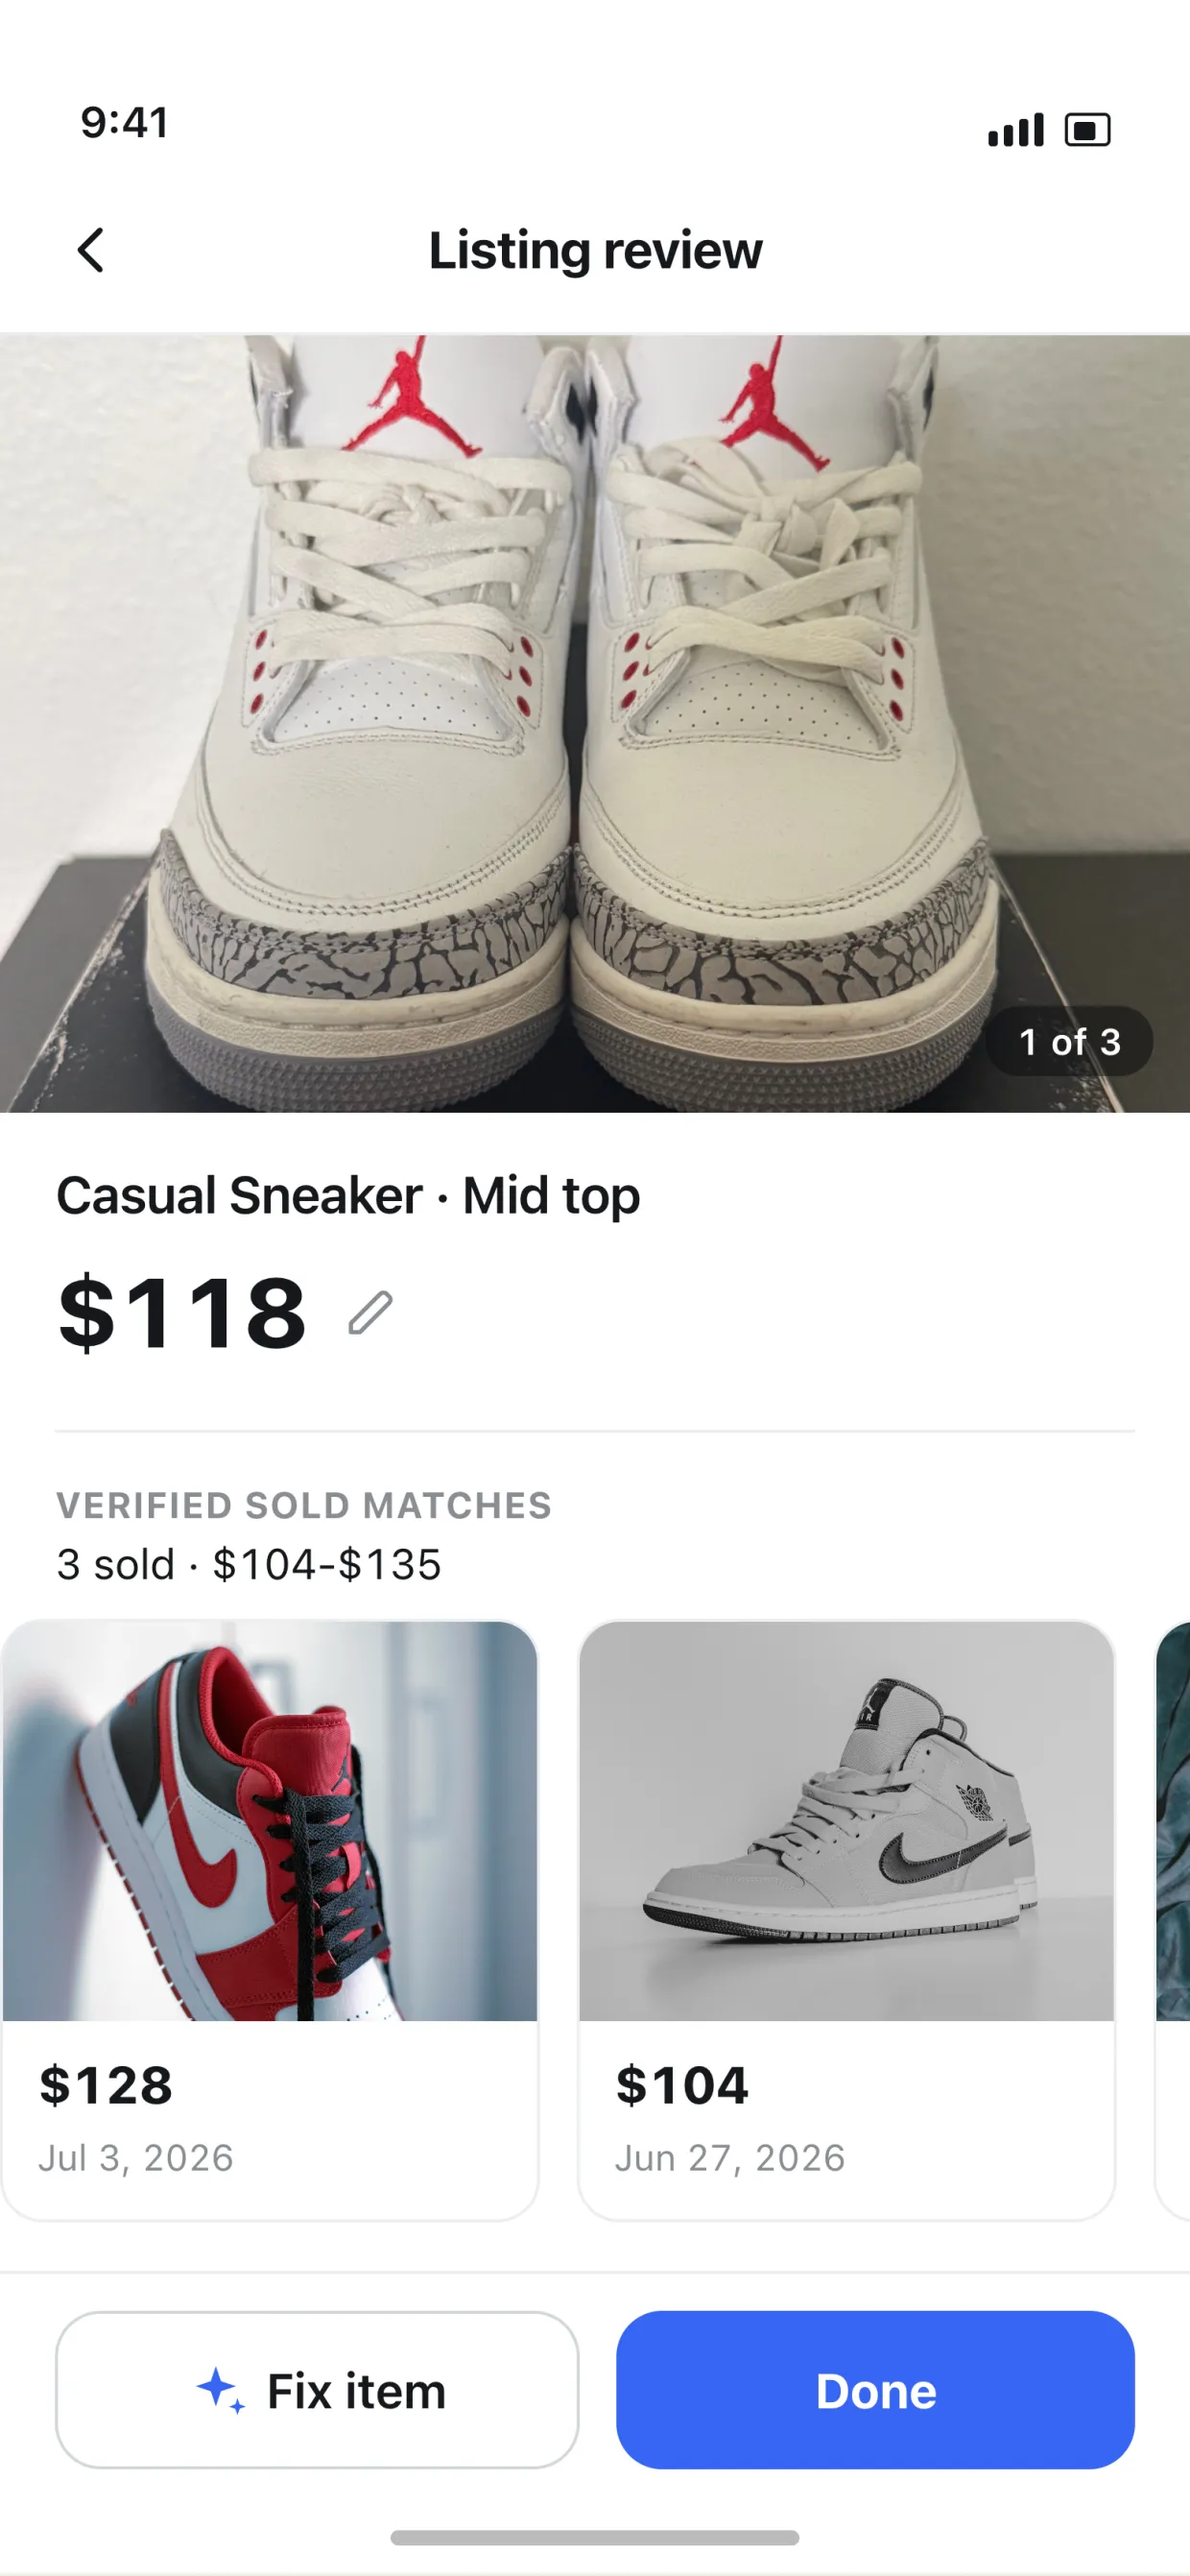
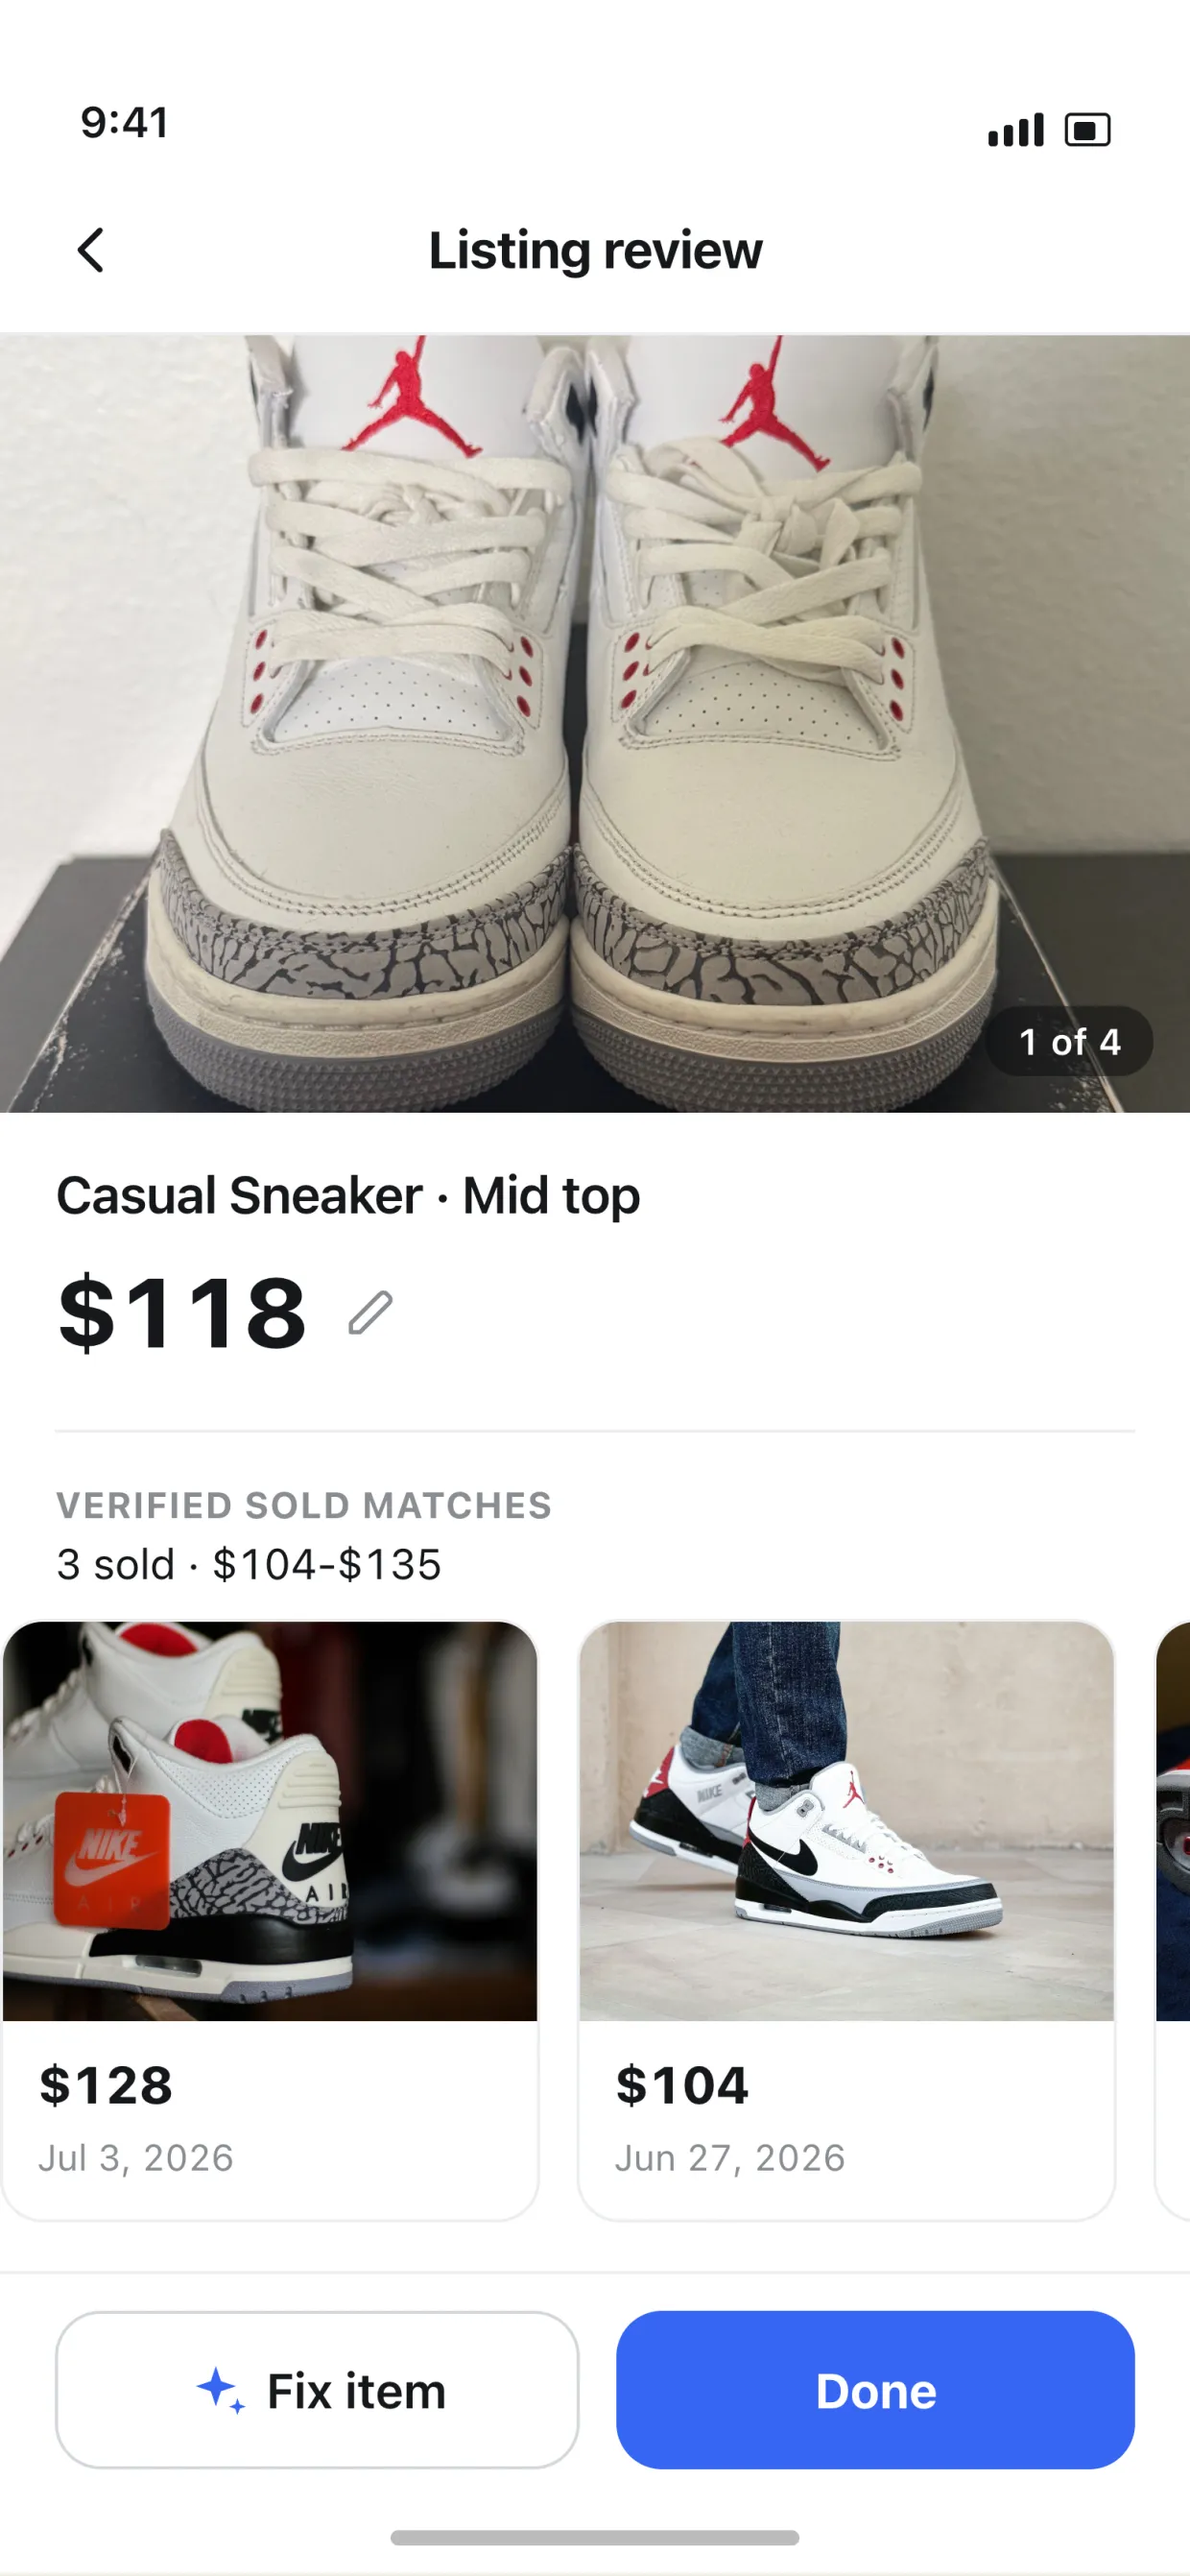
feat(marketing): carry one item through every explorer tab
The explorer's tabs are pipeline stages, so a visitor clicking through is
being shown one thing moving. Four of the five now show the same item,
Aziz's Air Jordan 3 Retro. Publish was a PlayStation 5 and the sold
matches under the price were Air Jordan 1s, which read as a wrong match
set under the heading "Verified sold matches".

Photo Review shows four photos rather than three, one frame per source
photograph. The previous strip cut two of its frames out of IMG_9832 and
put two frontal white-shoe thumbnails next to each other, which reads as
the same photo twice. IMG_9829 is a second lateral view, so it earns its
slot as the close detail, the elephant print over the black midsole,
rather than a second profile.

Listing Review carries the same four frames in the same order and the
Publish export pack says four photos, so the count does not change as the
item moves down the pipeline.

The five sold-comp thumbnails are genuine Air Jordan 3 photographs from
Unsplash, whose licence permits commercial use. Adobe Stock was checked
and rejected: branded resale photography there is editorial-use-only.

Scan is unchanged and still shows the licensed studio Air Jordan 1. It
paints white status text, white framing brackets and a white shutter ring
directly onto the viewfinder image, and the approved v4 Scan package bans
a scrim or grounding gradient. The old plate's top band measures a mean
luminance of 19; the wall behind Aziz's shoes measures 211 to 221. That
[…]

Changed region(s): [[0.0, 0.6187, 0.4597, 0.8043], [0.4903, 0.6187, 1.0, 0.8043]]

diff --git a/src/components/marketing/phone-screens.tsx b/src/components/marketing/phone-screens.tsx
@@ -61,7 +61,7 @@ export function PhotoReviewScreen() {
   return (
     <Shot
       src="/marketing/screens/photo-review.webp"
-      alt="Photo review showing three of five photos of a sneaker, the first marked Cover, a tile for adding another, and an empty voice note row offering to add details the photos might miss."
+      alt="Photo review showing four of five photos of a sneaker, each one a different angle, the first marked Cover, a tile for adding another, and an empty voice note row offering to add details the photos might miss."
     />
   );
 }

diff --git a/docs/design/marketing-screens-provenance.md b/docs/design/marketing-screens-provenance.md
@@ -11,10 +11,16 @@ of it from the binaries.
 | File | Section | Content |
 | --- | --- | --- |
 | `screens/scan.webp` | Scan | camera view framing a licensed studio Air Jordan 1 Low. This is the one screen whose item is not Aziz's own, and the reason is in "Whose shoes these are" below |
-| `screens/photo-review.webp` | Photo Review | three-photo strip of Aziz's Air Jordan 3, a Cover marker, an Add tile, and the voice note row in its empty state |
-| `screens/listing-review.webp` | Listing Review | title, condition, price recommendation, sold matches |
-| `screens/publish.webp` | Publish | assisted export and share, second-half publish screen |
-| `screens/trophy-wall.webp` | Trophy Wall | chronological item states |
+| `screens/photo-review.webp` | Photo Review | four-photo strip of Aziz's Air Jordan 3, one frame per source photograph, a Cover marker, an Add tile, and the voice note row in its empty state |
+| `screens/listing-review.webp` | Listing Review | the same four photos, title, condition, price recommendation, and three Air Jordan 3 sold matches |
+| `screens/publish.webp` | Publish | assisted export and share for the same item, second-half publish screen |
+| `screens/trophy-wall.webp` | Trophy Wall | chronological item states, with Aziz's Air Jordan 3 leading the wall |
+
+Four of the five are one item carried end to end. That is deliberate: the explorer's tabs are
+pipeline stages, so a visitor clicking through is being shown one thing moving, and five unrelated
+items would undercut the claim the section is making. Trophy Wall is legitimately several items,
+because it is a wall of everything the seller has run. Scan is the one break in the chain, and the
+reason is a photographic constraint recorded under "Whose shoes these are".
 
 ## How they are produced
 
@@ -105,17 +111,30 @@ claim about a screen the app renders.
 
 The fixture item used to be a licensed studio photograph of an Air Jordan 1 Low on a dark seamless,
 cropped five ways. Aziz photographed his own pair on an iPhone 16 Pro, so Photo Review, Listing
-Review and the Trophy Wall tile now show his Air Jordan 3 Retro, Summit White / Fire Red / Black,
-US 10, style DN3707-100, on its box. Every one of those facts is legible on the box label in
+Review, Publish and the Trophy Wall tile now show his Air Jordan 3 Retro, Summit White / Fire Red /
+Black, US 10, style DN3707-100, on its box. Every one of those facts is legible on the box label in
 `IMG_9832`, so the listing copy in the canvases is describable from the photographs rather than
 recalled.
 
 Sources live in `snaplist-appstore/source/fx/aziz/`. `scripts/aziz-jordan-crops.mjs` in that repo
-holds the crop rects and regenerates every derived file. Two traps are recorded there: all four
-originals carry EXIF orientation 6 and must be `.rotate()`d before any extract, and Listing Review
-paints its photos into a band about 1.5:1, so its three files are cut to that aspect rather than
-square. A square pair shot survived `cover` in that band as two toe boxes with the Jumpman sliced
-off the top.
+holds the crop rects and regenerates every derived file. Three traps are recorded there.
+
+All four originals carry EXIF orientation 6 and must be `.rotate()`d before any extract.
+
+Listing Review paints its photos into a band about 1.5:1, so its files are cut to that aspect rather
+than square. A square pair shot survived `cover` in that band as two toe boxes with the Jumpman
+sliced off the top.
+
+**One frame per source photograph.** There are four originals and the strip shows four frames, so
+each frame comes from a different one. An earlier pass cut both the pair shot and a tongue close-up
+out of `IMG_9832`; the strip then put two frontal white-shoe thumbnails next to each other and read
+as the same photo twice, which Aziz caught. `IMG_9829` is a second lateral view, so a whole-shoe cut
+from it lands almost on top of the `IMG_9831` profile. It earns its slot as the close detail
+instead, the elephant print over the black midsole. A fifth frame means finding a fifth angle in the
+sources, not cutting one of the four twice.
+
+Photo Review and Listing Review carry the same four frames in the same order, and the Publish export
+pack says four photos, so the photo count does not change as the item moves down the pipeline.
 
 **Scan keeps the licensed studio photograph, and this is not an oversight.** Scan paints a white
 9:41, a white flash glyph, white framing brackets and a white shutter ring directly onto the
@@ -126,11 +145,22 @@ gradient into the plate to fix that would depict a screen the app does not rende
 same class of problem guideline 2.3.3 covers. Scan changes when there is a photograph of his shoes
 shot against something dark, not before.
 
-The sold matches beside the price are still licensed Air Jordan 1 photographs, correctly titled as
-Air Jordan 1s. They are other sellers' listings, so they are supposed to be other photographs, but
-a set of Air Jordan 1 comps under an Air Jordan 3 is a loose match set. Tightening it needs three
-licensed Air Jordan 3 photographs, which is a spend decision, so it is recorded here rather than
-guessed at.
+The sold matches beside the price used to be Air Jordan 1 photographs, correctly titled as Air
+Jordan 1s. They are other sellers' listings, so they are supposed to be other photographs, but a set
+of Air Jordan 1 comps sitting under the heading "Verified sold matches" on an Air Jordan 3 is a
+wrong match set. They are now five genuine Air Jordan 3 photographs, cut by
+`scripts/comp-jordan3-crops.mjs` from `source/fx/comp3/` at 4:3, which is the aspect the rail card
+paints.
+
+The source is Unsplash, the same place the Air Jordan 1 set came from. The Unsplash License permits
+commercial use with no permission and no attribution required; the photographers are Jay Nuetey,
+Taru Goyal, Daniel Cheney, Joel Muniz and Sysoda Chau, credited here anyway. Adobe Stock was checked
+and rejected: branded resale photography there is editorial-use-only, which excludes App Store and
+marketing use.
+
+Always render a candidate before trusting its identification. One Unsplash photograph read as an Air
+Jordan 3 in a square-cropped contact sheet and showed its Air Jordan 4 wing panel once the sheet
+preserved the original aspect. Contact sheets that crop are not evidence of what a photograph shows.
 
 ## Known honesty gap
 
